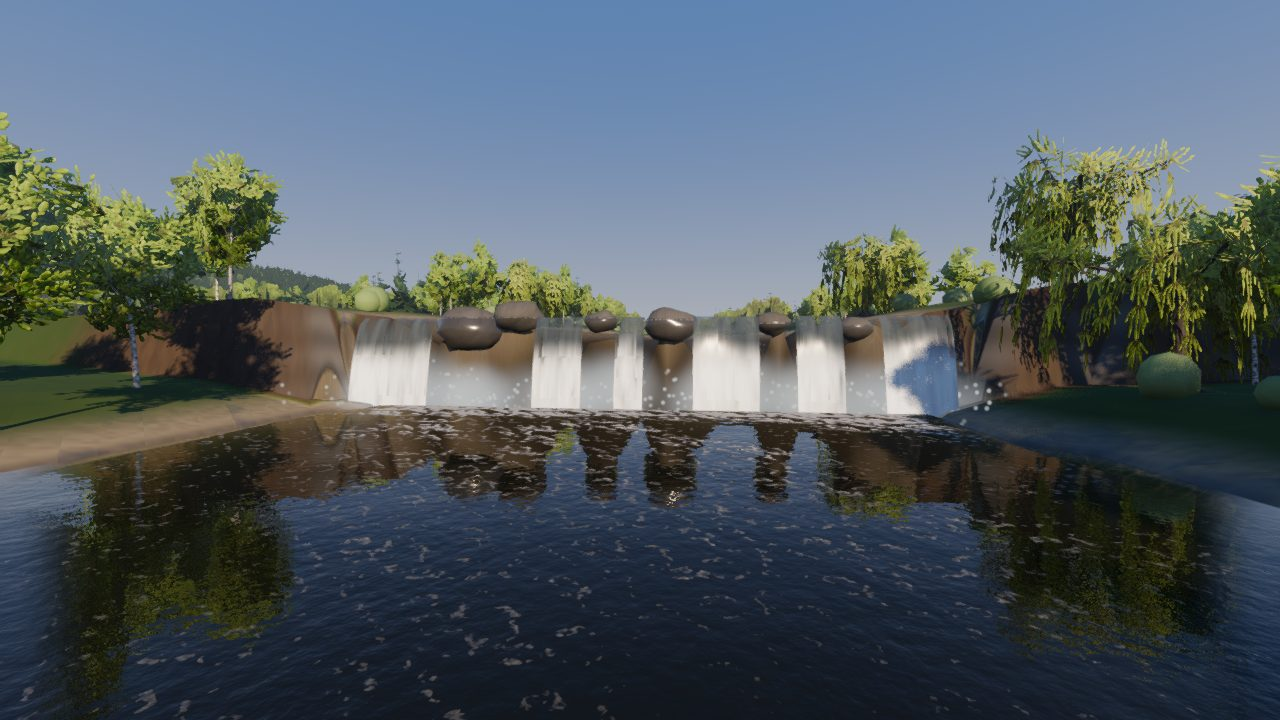
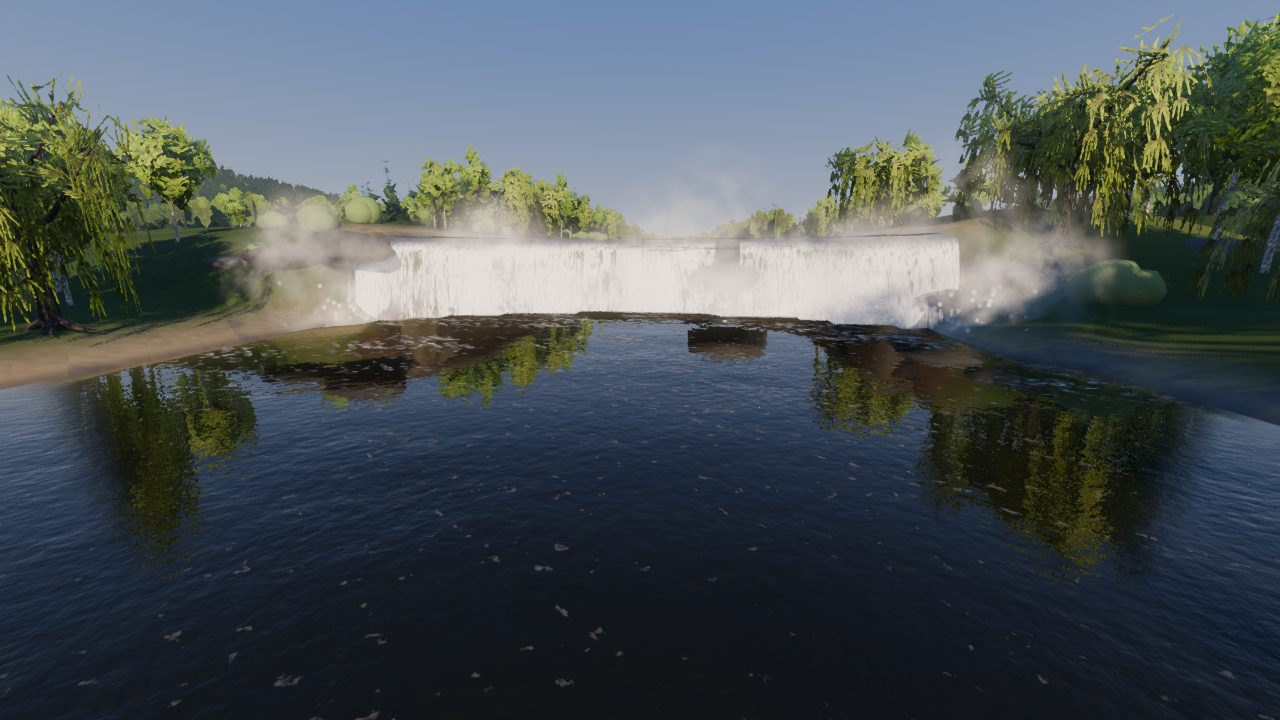
Waterfalls, third look: smooth horseshoe top, no churn carpet, faster brink, cloudy mist
From Tom's close-ups: churn skirt removed (foam on the river itself, capped), lip
smoothed and strips start at the pool level (no sawtooth), no sagging cells at the
brink, fine streaks and gaps in the sheet, smaller ledges, noisy rotating mist puffs;
the water speeds up and draws down over the last 30 m (D22). Journal plate updated.

diff --git a/Game/World/FallsBuilder.cs b/Game/World/FallsBuilder.cs
@@ -31,7 +31,6 @@ public static class FallsBuilder
         }
         root.AddChild(Sheet(cols, fa, veil: false, Mat(0)));
         root.AddChild(Sheet(cols, fa, veil: true, Mat(1)));
-        root.AddChild(Churn(cols, fa, Mat(2)));
         root.AddChild(Spray(f, fa, mist: false));
         root.AddChild(Spray(f, fa, mist: true));
         root.AddChild(TrailPost(f, fa));
@@ -109,6 +108,7 @@ public static class FallsBuilder
         float ax = -fa.DirZ, az = fa.DirX;
         float drop = fa.TopEta - fa.BottomEta;
         float reach = fa.HalfWidth * 1.6f + 10f;
+        var raw = new List<(float c, float s)>();
         for (float c = -reach; c <= reach; c += 0.5f)
         {
             float bx = fa.LipX + ax * c, bz = fa.LipZ + az * c;
@@ -120,6 +120,17 @@ public static class FallsBuilder
                 if (f.SampleEta(px, pz) < fa.TopEta - 0.5f * drop) { lipS = t - 0.25f; break; }
             }
             if (float.IsNaN(lipS)) continue;
+            raw.Add((c, lipS));
+        }
+        // Neighbouring columns leave the edge at nearly the same place: smooth the ragged lip over ±1.5 m, or the
+        // strips between them twist into folded ribbons.
+        for (int q = 0; q < raw.Count; q++)
+        {
+            float c = raw[q].c, sum = 0f; int n = 0;
+            for (int o = Math.Max(0, q - 5); o <= Math.Min(raw.Count - 1, q + 5); o++)
+                if (MathF.Abs(raw[o].c - c) < 2.6f) { sum += raw[o].s; n++; }
+            float lipS = sum / n;
+            float bx = fa.LipX + ax * c, bz = fa.LipZ + az * c;
             float lx = bx + fa.DirX * lipS, lz = bz + fa.DirZ * lipS;
             if (f.SampleDepth(lx - fa.DirX * 1.5f, lz - fa.DirZ * 1.5f) < 0.15f) continue;
             bool rock = false;
@@ -129,7 +140,11 @@ public static class FallsBuilder
             float amount = Math.Clamp(0.55f + 0.75f * River.Core.Noise.Fbm1(c / 4.5f, f.Seed + 77, 2), 0.25f, 1f);
             cols.Add(new Column
             {
-                Across = c, Lip = new Vector3(lx, fa.TopEta + 0.03f, lz), Dir = new Vector3(fa.DirX, 0f, fa.DirZ),
+                // The top follows the water at the brink (drawn down there), tucked 2 cm under it: no raised band.
+                // (Read 2.5 m upstream and never below the pool above: just at the edge the sample can fall into the
+                // pool below and the strip would start metres too low.)
+                Across = c, Lip = new Vector3(lx, MathF.Max(f.SampleEta(lx - fa.DirX * 2.5f, lz - fa.DirZ * 2.5f), fa.TopEta - 0.4f) - 0.02f, lz),
+                Dir = new Vector3(fa.DirX, 0f, fa.DirZ),
                 Amount = amount, Seed = River.Core.Noise.Hash01((int)MathF.Round(c * 2f), 3, f.Seed + 79),
             });
         }
@@ -160,14 +175,16 @@ public static class FallsBuilder
             {
                 float u = r / (float)Rows;
                 float brink = MathUtil.Smoothstep(0.12f, 0f, u);
-                float fwd = -0.8f * brink + th * MathF.Sqrt(u) + out0 * MathUtil.Smoothstep(0.05f, 0.4f, u) * (1f + u);
+                // (The brink starts 1.5 m upstream, under the river surface's last cells: no gap between them.)
+                float fwd = -1.5f * brink + th * MathF.Sqrt(u) + out0 * MathUtil.Smoothstep(0.05f, 0.4f, u) * (1f + u);
                 // Slower at first (the water leaves the edge horizontally), then falling.
-                float fall = (drop + 0.4f) * (0.35f * u * u + 0.65f * u);
+                float fall = (col.Lip.Y - fa.BottomEta + 0.4f) * (0.35f * u * u + 0.65f * u);
                 verts.Add(col.Lip + col.Dir * fwd + new Vector3(0f, -fall, 0f));
                 uvs.Add(new Vector2(col.Across, u));
                 colors.Add(new Color(col.Amount, col.Seed, veil ? 1f : 0f));
             }
-            if (prev >= 0 && MathF.Abs(col.Across - prevC) < 0.75f && col.Lip.DistanceTo(prevLip) < 1.4f)
+            // Side by side columns always join (gaps only where a ledge stands between them).
+            if (prev >= 0 && MathF.Abs(col.Across - prevC) < 0.75f && col.Lip.DistanceTo(prevLip) < 3f)
                 for (int r = 0; r < Rows; r++)
                 {
                     int a = prev + r, b = start + r, d = start + r + 1, e = prev + r + 1;
@@ -246,14 +263,17 @@ public static class FallsBuilder
             InitialVelocityMin = mist ? 0.6f : 2f + 0.25f * drop,
             InitialVelocityMax = mist ? 1.8f : 4f + 0.4f * drop,
             Gravity = mist ? new Vector3(wdx * 0.4f, 0.2f, wdz * 0.4f) : new Vector3(wdx * 1.5f, -6f, wdz * 1.5f),
-            ScaleMin = mist ? 0.7f : 0.5f, ScaleMax = mist ? 1.8f : 1.4f,
+            ScaleMin = mist ? 0.6f : 0.5f, ScaleMax = mist ? 2.0f : 1.4f,
+            // Each puff turned at random and turning slowly: the cloudy texture never lines up.
+            AngleMin = -180f, AngleMax = 180f,
+            AngularVelocityMin = mist ? -12f : 0f, AngularVelocityMax = mist ? 12f : 0f,
             ColorRamp = new GradientTexture1D
             {
                 Gradient = new Gradient
                 {
                     Offsets = new[] { 0f, 0.2f, 1f },
                     Colors = mist
-                        ? new[] { new Color(1, 1, 1, 0f), new Color(1, 1, 1, 0.3f), new Color(1, 1, 1, 0f) }
+                        ? new[] { new Color(1, 1, 1, 0f), new Color(1, 1, 1, 0.2f), new Color(1, 1, 1, 0f) }
                         : new[] { new Color(1, 1, 1, 0f), new Color(1, 1, 1, 0.8f), new Color(1, 1, 1, 0f) },
                 },
             },
@@ -266,12 +286,45 @@ public static class FallsBuilder
             Amount = mist ? 220 : 420,
             Lifetime = mist ? 7f : 1.6f,
             ProcessMaterial = pm,
-            DrawPass1 = new QuadMesh { Size = mist ? new Vector2(8f, 8f) : new Vector2(0.4f, 0.4f), Material = SprayMaterial() },
+            DrawPass1 = new QuadMesh { Size = mist ? new Vector2(8f, 8f) : new Vector2(0.4f, 0.4f), Material = mist ? MistMaterial() : SprayMaterial() },
             Position = new Vector3(fa.LipX + fa.DirX * 3.5f, fa.BottomEta + 0.2f, fa.LipZ + fa.DirZ * 3.5f),
             Rotation = new Vector3(0f, yaw, 0f),
             VisibilityAabb = new Aabb(new Vector3(-60, -5, -60), new Vector3(120, 40, 120)),
             CastShadow = GeometryInstance3D.ShadowCastingSetting.Off,
             Randomness = 0.6f,
+        };
+    }
+
+    static StandardMaterial3D _mist;
+
+    /// <summary>
+    /// The mist's puffs: a soft blob with cloudy noise inside it (fbm, gently contrasted), so the cloud billows
+    /// unevenly instead of being a uniform haze. Built once, 128 px.
+    /// </summary>
+    static StandardMaterial3D MistMaterial()
+    {
+        if (_mist != null) return _mist;
+        const int n = 128;
+        var img = Image.CreateEmpty(n, n, true, Image.Format.Rgba8);
+        for (int y = 0; y < n; y++)
+            for (int x = 0; x < n; x++)
+            {
+                float u = (x + 0.5f) / n * 2f - 1f, v = (y + 0.5f) / n * 2f - 1f;
+                float r = MathF.Sqrt(u * u + v * v);
+                float cloud = 0.5f + 0.5f * River.Core.Noise.Fbm(u * 2.2f + 5f, v * 2.2f + 3f, 4711, 4);
+                float a = MathUtil.Smoothstep(1f, 0.25f, r) * MathUtil.Smoothstep(0.25f, 0.75f, cloud);
+                img.SetPixel(x, y, new Color(1, 1, 1, a));
+            }
+        img.GenerateMipmaps();
+        return _mist = new StandardMaterial3D
+        {
+            Transparency = BaseMaterial3D.TransparencyEnum.Alpha,
+            BillboardMode = BaseMaterial3D.BillboardModeEnum.Particles,
+            ParticlesAnimHFrames = 1, ParticlesAnimVFrames = 1,
+            VertexColorUseAsAlbedo = true,
+            AlbedoColor = new Color(0.93f, 0.95f, 0.96f),
+            AlbedoTexture = ImageTexture.CreateFromImage(img),
+            Roughness = 1f,
         };
     }
 

diff --git a/Game/Core/ReachGenerator.cs b/Game/Core/ReachGenerator.cs
@@ -302,10 +302,25 @@ public static class ReachGenerator
                     across = -(x - falls.LipX) * falls.DirZ + (z - falls.LipZ) * falls.DirX;
                 }
                 float lipAt = FallsSpec.LipAt(across, hwLip, falls.Height, s.Seed);
-                if (past <= lipAt) continue;
+                if (past <= lipAt)
+                {
+                    // The approach: over the last 30 m the water speeds up towards the edge (up to ×3 at the brink),
+                    // the surface draws down (up to 0.35 m) and curves over; the shader roughens it with the speed.
+                    float a = MathUtil.Smoothstep(30f, 0f, lipAt - past);
+                    if (a > 0f)
+                    {
+                        float boost = 1f + 2f * a * a;
+                        f.VelX[i] *= boost; f.VelZ[i] *= boost;
+                        float sp = MathF.Sqrt(f.VelX[i] * f.VelX[i] + f.VelZ[i] * f.VelZ[i]);
+                        if (sp > 3.5f) { f.VelX[i] *= 3.5f / sp; f.VelZ[i] *= 3.5f / sp; }
+                        f.Eta[i] -= 0.35f * a * a * a;
+                    }
+                    continue;
+                }
                 f.Eta[i] -= falls.Height;
                 below++;
-                fallsFoam[i] = MathUtil.Smoothstep(24f, 4f, past - lipAt);
+                // The foot: churned white for the first 12 m, fading by 30 m.
+                fallsFoam[i] = 0.8f * MathUtil.Smoothstep(30f, 12f, past - lipAt);   // (below the shader's solid-white threshold)
             }
             falls.TopEta = f.SampleEta(falls.LandingX, falls.LandingZ);
             falls.BottomEta = f.SampleEta(falls.PutInX, falls.PutInZ);

diff --git a/Game/Main.cs b/Game/Main.cs
@@ -437,6 +437,22 @@ public partial class Main : Node3D
                                    OnWater(best.X + dx * 0.8f, best.Z + dz * 0.8f, 0f));
                 break;
             }
+            case "falls_brink":
+            {
+                // Just above the edge, looking over it (as from a raft that came too close).
+                if (FindFeature(FeatureKind.Falls) is not { } f) break;
+                var up = At(f.Lip - 22.0); var down = At(f.Lip + 14.0);
+                FlyCam.LookAtPoint(OnWater(up.x + up.rx * 6.0, up.z + up.rz * 6.0, 4.5f), OnWater(down.x, down.z, -1f));
+                break;
+            }
+            case "falls_close":
+            {
+                // In the plunge pool, close in front of the falling water.
+                if (FindFeature(FeatureKind.Falls) is not { } f) break;
+                var p = At(f.Lip + 16.0); var lip = At(f.Lip - 6.0);
+                FlyCam.LookAtPoint(OnWater(p.x + p.rx * 4.0, p.z + p.rz * 4.0, 1.6f), OnWater(lip.x, lip.z, -3f));
+                break;
+            }
             case "falls":
             case "falls_top":
             {

diff --git a/Game/Core/Segment.cs b/Game/Core/Segment.cs
@@ -81,13 +81,13 @@ public sealed class FallsSpec
 
     /// <summary>
     /// Where the lip is, across the river: metres past the lip sample (negative = upstream) at <paramref name="across"/>
-    /// metres from the centre line. A horseshoe (the middle cut back by up to 35 % of the half-width) with a ragged
-    /// edge. Shared by the generator (which water drops), the lip ledges and the curtain.
+    /// metres from the centre line. A horseshoe (the middle cut back by up to 35 % of the half-width) with a slightly
+    /// ragged edge (±0.7 m). Shared by the generator (which water drops), the lip ledges and the curtain.
     /// </summary>
     public static float LipAt(float across, float halfWidth, float height, int seed)
     {
         float recess = Math.Clamp(0.35f * halfWidth, 3f, 12f);
         float u = Math.Clamp(across / halfWidth, -1.2f, 1.2f);
-        return -recess * MathF.Max(0f, 1f - u * u) + 1.5f * Noise.Fbm1(across / 5f + height, seed + 461, 2);
+        return -recess * MathF.Max(0f, 1f - u * u) + 0.7f * Noise.Fbm1(across / 7f + height, seed + 461, 2);
     }
 }

diff --git a/Game/Core/CourseSegments.cs b/Game/Core/CourseSegments.cs
@@ -354,7 +354,7 @@ public static class CourseSegments
         var rng = new Rng(f.Seed + 31);
         int iL = c.RiverIndexAt(f.Lip);
         float hl = c.HalfLeft[iL], hr = c.HalfRight[iL], hw = MathF.Max(hl, hr);
-        int n = 2 + rng.Range(0, 3);
+        int n = 1 + rng.Range(0, 3);
         for (int q = 0; q < n; q++)
         {
             float lat = -hl * 0.8f + (hl + hr) * 0.8f * (q + rng.Range(0.25f, 0.75f)) / n;
@@ -362,7 +362,7 @@ public static class CourseSegments
             int i = c.RiverIndexAt(f.Lip + lip - 1.0);
             var (rx, rz) = c.RiverRight(i);
             var (lx, lz) = L(c.X[i] + rx * lat, c.Z[i] + rz * lat);
-            spec.Rocks.Add(new Rock { X = lx, Z = lz, Radius = rng.Range(1.6f, 2.8f), Top = rng.Range(0.12f, 0.4f), Seed = f.Seed + 300 + q });
+            spec.Rocks.Add(new Rock { X = lx, Z = lz, Radius = rng.Range(1.1f, 1.9f), Top = rng.Range(0.05f, 0.22f), Seed = f.Seed + 300 + q });
         }
     }
 

diff --git a/Game/World/WaterBuilder.cs b/Game/World/WaterBuilder.cs
@@ -99,7 +99,7 @@ public static class WaterBuilder
                         {
                             float lo = MathF.Min(MathF.Min(verts[a].Y, verts[b].Y), MathF.Min(verts[c].Y, verts[d].Y));
                             float hi = MathF.Max(MathF.Max(verts[a].Y, verts[b].Y), MathF.Max(verts[c].Y, verts[d].Y));
-                            if (hi - lo > 1f) continue;
+                            if (hi - lo > 0.3f) continue;   // (a cell half over the edge would sag into a dark band)
                         }
                         idx.Add(a); idx.Add(b); idx.Add(d); idx.Add(a); idx.Add(d); idx.Add(c);
                     }

diff --git a/docs/DECISIONS.md b/docs/DECISIONS.md
@@ -299,3 +299,12 @@ at the landing, since there is no survival yet).
   across the valley at the lip: the drop is a rock face at the water, easing 0.8 m per metre from the shore into a
   walkable slope (`ReachGenerator.SoftenScarp`), and far from the river `LevelAt` ramps over ±150 m.
 - Portage still passes (233 s of pushing, afloat 0.3 m from the put-in).
+- **Third look** (Tom's close-up screenshots: folded ribbons, a carpet-like churn, a smooth paper curtain; "the closer
+  to the edge, the faster and more turbulent"): the churn skirt is gone (the river surface churns white itself, foam
+  capped at 0.8 so it stays broken foam, not a solid patch); the lip's raggedness halved (±0.7 m) and the columns'
+  edges smoothed over ±2.5 m, each strip starting at the pool's level read 2.5 m upstream (just at the edge the sample
+  could fall into the pool below: strips started metres low, a sawtooth top); river-surface cells dipping > 0.3 m
+  aren't drawn (a half-over cell sagged into a dark band); hair-fine fast streaks and see-through gaps in the sheet;
+  lip ledges fewer, smaller, lower; mist puffs have a cloudy noise texture and random slow rotation. **Approach**: over
+  the last 30 m above the lip the current speeds up to ×3 (≤ 3.5 m/s), the surface draws down by up to 0.35 m, and
+  the shader roughens it with the speed. Shots `falls_brink`, `falls_close`.
